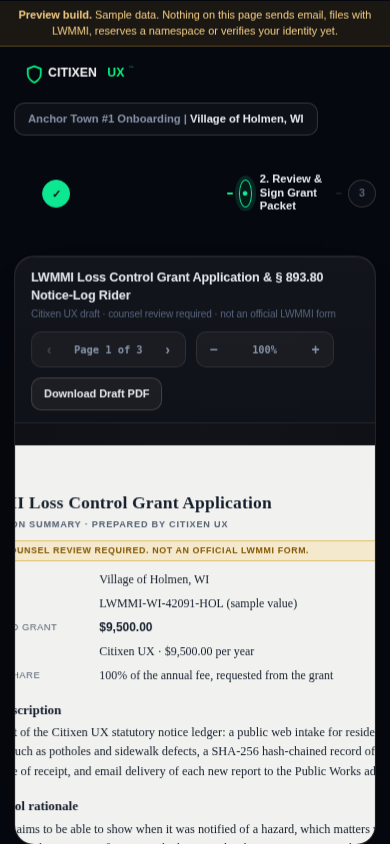
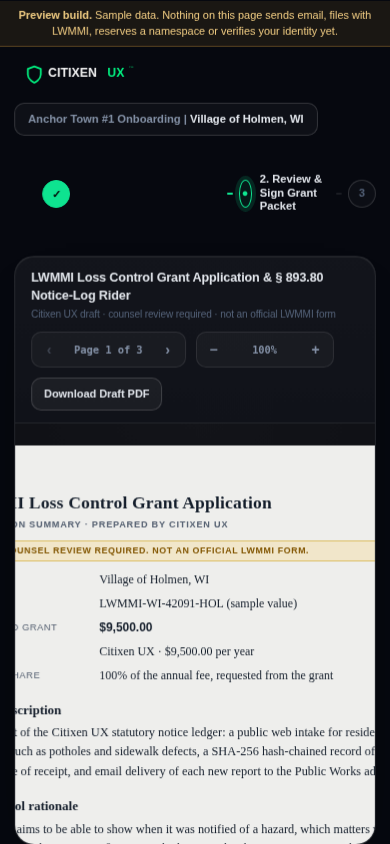
Gateway splash: official CITIXEN UX brand lockup (shield, wordmark with TM, slogan, citixenux.com pill)
Claude-Session: https://claude.ai/code/session_01Pr7YiDeuau7Lt6RzqjTVyU

diff --git a/muni-gateway.html b/muni-gateway.html
@@ -59,22 +59,24 @@ html{background:#05070C}
 .lg img{height:28px;display:block}
 .lg.off{opacity:0;pointer-events:none}
 #s1,#s2{position:relative;isolation:isolate;min-height:100vh;min-height:100svh;overflow:hidden}
-.obsidian{position:absolute;inset:0;background:#05070C;z-index:-2}
+.obsidian{position:absolute;inset:0;background:#0B0F12;z-index:-2}
 .backlight{position:absolute;inset:0;z-index:-1;pointer-events:none;
-  background:radial-gradient(52vmax 52vmax at 50% 46%,rgba(16,185,129,.30),rgba(16,185,129,.09) 38%,transparent 66%),
+  background:radial-gradient(52vmax 52vmax at 50% 46%,rgba(16,185,129,.16),rgba(16,185,129,.05) 38%,transparent 66%),
              radial-gradient(90vmax 60vmax at 50% 120%,rgba(16,185,129,.08),transparent 60%);
   animation:breathe 7s ease-in-out infinite}
 @keyframes breathe{0%,100%{opacity:.82;transform:scale(1)}50%{opacity:1;transform:scale(1.05)}}
 .splash{min-height:inherit;display:flex;flex-direction:column;align-items:center;justify-content:center;text-align:center;padding:90px 24px 70px;cursor:pointer}
-.shield{width:clamp(110px,16vmin,168px);height:auto;margin-bottom:clamp(24px,5vmin,44px);overflow:visible;
-  filter:drop-shadow(0 0 14px rgba(52,211,153,.75)) drop-shadow(0 0 46px rgba(16,185,129,.55));animation:glow 4.5s ease-in-out infinite}
-@keyframes glow{0%,100%{filter:drop-shadow(0 0 12px rgba(52,211,153,.65)) drop-shadow(0 0 38px rgba(16,185,129,.45))}50%{filter:drop-shadow(0 0 20px rgba(110,231,183,.95)) drop-shadow(0 0 64px rgba(16,185,129,.7))}}
-.splash h1{margin:0;font:700 clamp(2.1rem,6.2vw,4.4rem)/1.04 var(--sans);letter-spacing:-.035em;max-width:14ch;
-  background:linear-gradient(180deg,#fff 30%,#bfeedd);-webkit-background-clip:text;background-clip:text;color:transparent;animation:rise2 1s .15s cubic-bezier(.2,.7,.2,1) both}
+.shield{width:clamp(96px,14vmin,148px);height:auto;margin-bottom:clamp(18px,3.4vmin,30px);overflow:visible;
+  filter:drop-shadow(0 0 20px rgba(16,185,129,.35))}
+.wm{margin:0;font:700 clamp(2.1rem,6vw,3.5rem)/1 var(--sans);letter-spacing:.06em;text-transform:uppercase;color:#fff;white-space:nowrap;animation:rise2 .9s .1s cubic-bezier(.2,.7,.2,1) both}
+.wm .ux{color:#10B981}
+.wm sup{font-size:.3em;font-weight:600;letter-spacing:0;vertical-align:top;position:relative;top:.35em;margin-left:.12em;color:#10B981}
 @keyframes rise2{from{opacity:0;transform:translateY(14px)}to{opacity:1;transform:none}}
-.begin{margin-top:clamp(28px,6vmin,56px);background:none;border:0;color:#7ee0bb;font:600 .85rem var(--sans);letter-spacing:.14em;text-transform:uppercase;padding:10px 18px;border-radius:999px;animation:pulseHint 2.8s 1.2s ease-in-out infinite both}
-.begin:hover{color:#d6fbec}
-@keyframes pulseHint{0%,100%{opacity:.45}50%{opacity:1}}
+.slogan{margin:clamp(14px,2.4vmin,22px) 0 0;font:400 clamp(1.05rem,2.5vw,1.45rem)/1.35 var(--sans);letter-spacing:-.005em;color:#F1F5F9;animation:rise2 .9s .25s cubic-bezier(.2,.7,.2,1) both}
+.pill{margin-top:clamp(22px,4vmin,34px);display:inline-block;border:1px solid rgba(6,78,59,.6);background:rgba(2,44,34,.3);padding:8px 24px;border-radius:9999px;color:#10B981;font:500 .9rem ui-monospace,SFMono-Regular,Menlo,Consolas,monospace;letter-spacing:.02em;animation:rise2 .9s .4s cubic-bezier(.2,.7,.2,1) both}
+.hint{position:absolute;left:0;right:0;bottom:clamp(18px,4vh,34px);text-align:center;font:500 .7rem var(--sans);letter-spacing:.16em;text-transform:uppercase;color:#10B981;opacity:.45;pointer-events:none;animation:pulseHint 2.8s 1.4s ease-in-out infinite both}
+.sr{position:absolute;width:1px;height:1px;overflow:hidden;clip:rect(0 0 0 0);white-space:nowrap}
+@keyframes pulseHint{0%,100%{opacity:.25}50%{opacity:.6}}
 .s2wrap{min-height:inherit;display:grid;place-items:center;padding:var(--m)}
 #s2{--m:16px}
 @media (min-width:640px){#s2{--m:56px}}
@@ -245,9 +247,12 @@ input.t:focus{outline:none;border-color:var(--em);box-shadow:0 0 0 3px rgba(16,2
 <section class="screen" id="s1" aria-label="Welcome">
   <div class="obsidian" aria-hidden="true"></div><div class="backlight" aria-hidden="true"></div>
   <div class="splash" id="splash">
-    <svg class="shield" viewBox="0 0 44 48" fill="none" aria-hidden="true"><defs><linearGradient id="sg" x1="22" y1="4" x2="22" y2="44" gradientUnits="userSpaceOnUse"><stop stop-color="#6EE7B7"/><stop offset="1" stop-color="#10B981"/></linearGradient></defs><path d="M22 44s16-8 16-20V10L22 4 6 10v14c0 12 16 20 16 20z" fill="rgba(16,185,129,.10)" stroke="url(#sg)" stroke-width="2.6" stroke-linecap="round" stroke-linejoin="round"/><path d="M15.5 24.5l5 5 9-10" stroke="url(#sg)" stroke-width="2.6" stroke-linecap="round" stroke-linejoin="round"/></svg>
-    <h1 id="splashH">Upgrade Your Civic Experience.</h1>
-    <button type="button" class="begin" id="beginBtn">Tap to begin</button>
+    <svg class="shield" viewBox="0 0 44 48" fill="none" aria-hidden="true"><path d="M22 44s16-8 16-20V10L22 4 6 10v14c0 12 16 20 16 20z" stroke="#10B981" stroke-width="2.6" stroke-linecap="round" stroke-linejoin="round"/><path d="M15.5 24.5l5 5 9-10" stroke="#10B981" stroke-width="2.6" stroke-linecap="round" stroke-linejoin="round"/></svg>
+    <h1 class="wm" id="wordmark" aria-label="CITIXEN UX"><span aria-hidden="true">CITIXEN <span class="ux">UX</span><sup>™</sup></span></h1>
+    <p class="slogan" id="splashH">Upgrade Your Civic Experience</p>
+    <span class="pill" id="urlPill">citixenux.com</span>
+    <button type="button" class="sr" id="beginBtn">Continue</button>
+    <div class="hint" aria-hidden="true">Tap anywhere to continue</div>
   </div>
 </section>
 

diff --git a/muni/holmen-wi/gateway.html b/muni/holmen-wi/gateway.html
@@ -59,22 +59,24 @@ html{background:#05070C}
 .lg img{height:28px;display:block}
 .lg.off{opacity:0;pointer-events:none}
 #s1,#s2{position:relative;isolation:isolate;min-height:100vh;min-height:100svh;overflow:hidden}
-.obsidian{position:absolute;inset:0;background:#05070C;z-index:-2}
+.obsidian{position:absolute;inset:0;background:#0B0F12;z-index:-2}
 .backlight{position:absolute;inset:0;z-index:-1;pointer-events:none;
-  background:radial-gradient(52vmax 52vmax at 50% 46%,rgba(16,185,129,.30),rgba(16,185,129,.09) 38%,transparent 66%),
+  background:radial-gradient(52vmax 52vmax at 50% 46%,rgba(16,185,129,.16),rgba(16,185,129,.05) 38%,transparent 66%),
              radial-gradient(90vmax 60vmax at 50% 120%,rgba(16,185,129,.08),transparent 60%);
   animation:breathe 7s ease-in-out infinite}
 @keyframes breathe{0%,100%{opacity:.82;transform:scale(1)}50%{opacity:1;transform:scale(1.05)}}
 .splash{min-height:inherit;display:flex;flex-direction:column;align-items:center;justify-content:center;text-align:center;padding:90px 24px 70px;cursor:pointer}
-.shield{width:clamp(110px,16vmin,168px);height:auto;margin-bottom:clamp(24px,5vmin,44px);overflow:visible;
-  filter:drop-shadow(0 0 14px rgba(52,211,153,.75)) drop-shadow(0 0 46px rgba(16,185,129,.55));animation:glow 4.5s ease-in-out infinite}
-@keyframes glow{0%,100%{filter:drop-shadow(0 0 12px rgba(52,211,153,.65)) drop-shadow(0 0 38px rgba(16,185,129,.45))}50%{filter:drop-shadow(0 0 20px rgba(110,231,183,.95)) drop-shadow(0 0 64px rgba(16,185,129,.7))}}
-.splash h1{margin:0;font:700 clamp(2.1rem,6.2vw,4.4rem)/1.04 var(--sans);letter-spacing:-.035em;max-width:14ch;
-  background:linear-gradient(180deg,#fff 30%,#bfeedd);-webkit-background-clip:text;background-clip:text;color:transparent;animation:rise2 1s .15s cubic-bezier(.2,.7,.2,1) both}
+.shield{width:clamp(96px,14vmin,148px);height:auto;margin-bottom:clamp(18px,3.4vmin,30px);overflow:visible;
+  filter:drop-shadow(0 0 20px rgba(16,185,129,.35))}
+.wm{margin:0;font:700 clamp(2.1rem,6vw,3.5rem)/1 var(--sans);letter-spacing:.06em;text-transform:uppercase;color:#fff;white-space:nowrap;animation:rise2 .9s .1s cubic-bezier(.2,.7,.2,1) both}
+.wm .ux{color:#10B981}
+.wm sup{font-size:.3em;font-weight:600;letter-spacing:0;vertical-align:top;position:relative;top:.35em;margin-left:.12em;color:#10B981}
 @keyframes rise2{from{opacity:0;transform:translateY(14px)}to{opacity:1;transform:none}}
-.begin{margin-top:clamp(28px,6vmin,56px);background:none;border:0;color:#7ee0bb;font:600 .85rem var(--sans);letter-spacing:.14em;text-transform:uppercase;padding:10px 18px;border-radius:999px;animation:pulseHint 2.8s 1.2s ease-in-out infinite both}
-.begin:hover{color:#d6fbec}
-@keyframes pulseHint{0%,100%{opacity:.45}50%{opacity:1}}
+.slogan{margin:clamp(14px,2.4vmin,22px) 0 0;font:400 clamp(1.05rem,2.5vw,1.45rem)/1.35 var(--sans);letter-spacing:-.005em;color:#F1F5F9;animation:rise2 .9s .25s cubic-bezier(.2,.7,.2,1) both}
+.pill{margin-top:clamp(22px,4vmin,34px);display:inline-block;border:1px solid rgba(6,78,59,.6);background:rgba(2,44,34,.3);padding:8px 24px;border-radius:9999px;color:#10B981;font:500 .9rem ui-monospace,SFMono-Regular,Menlo,Consolas,monospace;letter-spacing:.02em;animation:rise2 .9s .4s cubic-bezier(.2,.7,.2,1) both}
+.hint{position:absolute;left:0;right:0;bottom:clamp(18px,4vh,34px);text-align:center;font:500 .7rem var(--sans);letter-spacing:.16em;text-transform:uppercase;color:#10B981;opacity:.45;pointer-events:none;animation:pulseHint 2.8s 1.4s ease-in-out infinite both}
+.sr{position:absolute;width:1px;height:1px;overflow:hidden;clip:rect(0 0 0 0);white-space:nowrap}
+@keyframes pulseHint{0%,100%{opacity:.25}50%{opacity:.6}}
 .s2wrap{min-height:inherit;display:grid;place-items:center;padding:var(--m)}
 #s2{--m:16px}
 @media (min-width:640px){#s2{--m:56px}}
@@ -245,9 +247,12 @@ input.t:focus{outline:none;border-color:var(--em);box-shadow:0 0 0 3px rgba(16,2
 <section class="screen" id="s1" aria-label="Welcome">
   <div class="obsidian" aria-hidden="true"></div><div class="backlight" aria-hidden="true"></div>
   <div class="splash" id="splash">
-    <svg class="shield" viewBox="0 0 44 48" fill="none" aria-hidden="true"><defs><linearGradient id="sg" x1="22" y1="4" x2="22" y2="44" gradientUnits="userSpaceOnUse"><stop stop-color="#6EE7B7"/><stop offset="1" stop-color="#10B981"/></linearGradient></defs><path d="M22 44s16-8 16-20V10L22 4 6 10v14c0 12 16 20 16 20z" fill="rgba(16,185,129,.10)" stroke="url(#sg)" stroke-width="2.6" stroke-linecap="round" stroke-linejoin="round"/><path d="M15.5 24.5l5 5 9-10" stroke="url(#sg)" stroke-width="2.6" stroke-linecap="round" stroke-linejoin="round"/></svg>
-    <h1 id="splashH">Upgrade Your Civic Experience.</h1>
-    <button type="button" class="begin" id="beginBtn">Tap to begin</button>
+    <svg class="shield" viewBox="0 0 44 48" fill="none" aria-hidden="true"><path d="M22 44s16-8 16-20V10L22 4 6 10v14c0 12 16 20 16 20z" stroke="#10B981" stroke-width="2.6" stroke-linecap="round" stroke-linejoin="round"/><path d="M15.5 24.5l5 5 9-10" stroke="#10B981" stroke-width="2.6" stroke-linecap="round" stroke-linejoin="round"/></svg>
+    <h1 class="wm" id="wordmark" aria-label="CITIXEN UX"><span aria-hidden="true">CITIXEN <span class="ux">UX</span><sup>™</sup></span></h1>
+    <p class="slogan" id="splashH">Upgrade Your Civic Experience</p>
+    <span class="pill" id="urlPill">citixenux.com</span>
+    <button type="button" class="sr" id="beginBtn">Continue</button>
+    <div class="hint" aria-hidden="true">Tap anywhere to continue</div>
   </div>
 </section>
 
